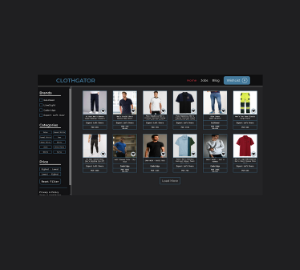
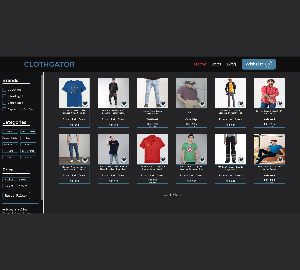
filtering added on cards

Changed region(s): [[0.0, 0.2074, 0.96, 0.8], [0.0, 0.2963, 0.09, 0.3852], [0.0, 0.3852, 0.03, 0.4148]]

diff --git a/work.js b/work.js
@@ -1,0 +1,125 @@
+const FULLSTACK = "FullStack"
+const FRONTEND = "Frontend"
+const UIDESIGN = "UI Design"
+
+export const work = [
+    {
+        type: FULLSTACK,
+        image: "/images/clothgator.png",
+        title: "Clothgator.com",
+        about: "Clothgator is a clothing aggregator based in Pakistan.",
+        tech: ["Django", "Next JS"],
+        btns: [
+            {
+                color: "accent",
+                type: "filled",
+                text: "Live Demo",
+                link: "https://clothgator.com/"
+            },
+        ]
+    },
+
+    {
+        type: FULLSTACK,
+        image: "/images/studentutor.png",
+        title: "Studentutor",
+        about: "A platform to connect students and tutors.",
+        tech: ["Django"],
+        btns: [
+            {
+                color: "black",
+                type: "stroked",
+                text: "Github",
+                link: "https://github.com/UsamaKashif/studentutor"
+            }
+        ]
+    },
+
+    {
+        type: FRONTEND,
+        image: "/images/sunnyside.png",
+        title: "Sunny-Side Landing Page",
+        about: "frontend Mentor Challenge",
+        tech: ["Next JS"],
+        btns: [
+            {
+                color: "accent",
+                type: "filled",
+                text: "Live Demo",
+                link: "https://sunnyside-landing-page-sigma.vercel.app/"
+            },
+            {
+                color: "black",
+                type: "stroked",
+                text: "Github",
+                link: "https://github.com/UsamaKashif/Sunnyside-landing-page"
+            }
+        ]
+    },
+
+    {
+        type: FRONTEND,
+        image: "/images/3colcard.png",
+        title: "3-Column Card",
+        about: "frontend Mentor Challenge",
+        tech: ["Next JS"],
+        btns: [
+            {
+                color: "accent",
+                type: "filled",
+                text: "Live Demo",
+                link: "https://3-column-preview-card-component-omega.vercel.app/"
+            },
+            {
+                color: "black",
+                type: "stroked",
+                text: "Github",
+                link: "https://github.com/UsamaKashif/3-column-preview-card-component"
+            }
+        ]
+    },
+
+    {
+        type: FRONTEND,
+        image: "/images/Expensetracker.png",
+        title: "Expense Tracker",
+        about: "Simple Expense tracker",
+        tech: ["React JS"],
+        btns: [
+            {
+                color: "accent",
+                type: "filled",
+                text: "Live Demo",
+                link: "https://bawdy-jellyfish.surge.sh/"
+            },
+            {
+                color: "black",
+                type: "stroked",
+                text: "Github",
+                link: "https://github.com/UsamaKashif/expense-tracker-reactjs"
+            }
+        ]
+    },
+
+    {
+        type: FULLSTACK,
+        image: "/images/ecommerce.png",
+        title: "E-Commerce",
+        about: "Simple Ecommerce website",
+        tech: ["Django"],
+        btns: [
+            {
+                color: "accent",
+                type: "filled",
+                text: "Live Demo",
+                link: "https://ecommerce-with-dj.herokuapp.com/"
+            },
+            {
+                color: "black",
+                type: "stroked",
+                text: "Github",
+                link: "https://github.com/UsamaKashif/e-commerce-with-django"
+            }
+        ]
+    },
+]

diff --git a/pages/index.js b/pages/index.js
@@ -1,16 +1,35 @@
 import Head from 'next/head'
 import Image from 'next/image'
-import { useState } from 'react'
+import { useEffect, useState } from 'react'
 import Card from '../components/Card/Index'
 import Footer from '../components/Footer/Index'
 import Header from '../components/Header/Index'
 import Tech from '../components/tech/Index'
 import styles from '../styles/Home.module.css'
+import { work } from '../work'
 
 const WORKTYPES = ["All", "FullStack", "Frontend", "UI Design"]
 
-export default function Home() {
+export default function Home({data}) {
   const [type, setType] = useState(WORKTYPES[0])
+
+  const [cards, setCards] = useState([])
+
+  useEffect(() => {
+    switch (type) {
+      case WORKTYPES[1]:
+        setCards(data.filter(data => data.type === type))
+        break
+      case WORKTYPES[2]:
+        setCards(data.filter(data => data.type === type))
+        break
+      case WORKTYPES[3]:
+        setCards(data.filter(data => data.type === type))
+        break
+      default:
+        setCards(data)
+    }
+  }, [type])
 
   const changeActive = (t) => {
     setType(t)
@@ -34,17 +53,25 @@ export default function Home() {
             }
           </div>
           <div className={styles.cards}>
-            <Card />
-            <Card />
-            <Card />
-            <Card />
-            <Card />
-            <Card />
-            <Card />
+            {
+              cards.map((card, index) => (
+                <Card data={card} key={index} />
+              ))
+            }
           </div>
       </section>
 
       <Footer />
     </main>
   )
+}
+
+
+export const getStaticProps = async () => {
+  const data = work
+  return {
+    props: {
+      data: data
+    }
+  }
 }

diff --git a/components/Card/Index.js b/components/Card/Index.js
@@ -11,22 +11,28 @@ const TechUsed = ({text}) => {
     )
 }
 
-const Card = () => {
+const Card = ({data}) => {
     return (
         <div className={styles.cardContainer}>
             <section className={styles.imgSection}>
-                <img src="/images/clothgator.png" alt="clothgator.com" />
+                <img src={data.image} alt={data.about} />
             </section>
             <section className={styles.content}>
-                <h1>Clothgator.com</h1>
-                <p>Clothgator is a clothing aggregator based in Pakistan.</p>
+                <h1>{data.title}</h1>
+                <p>{data.about}</p>
                 <div className={styles.btns}>
-                    <Button color="accent" type="fill" text="View Demo" />
-                    <Button color="black" type="stroked" text="Github" />
+                    {
+                        data.btns.map((btn, index) => (
+                            <Button color={btn.color} link={btn.link} type={btn.type} text={btn.text} />
+                        ))
+                    }
                 </div>
                 <div className={styles.techUsedContainer}>
-                    <TechUsed text="Django" />
-                    <TechUsed text="Next JS" />
+                    {
+                        data.tech.map((tech, index) => (
+                            <TechUsed key={index} text={tech} key={index} />
+                        ))
+                    }
                 </div>
             </section>
         </div>

diff --git a/components/Button/Index.js b/components/Button/Index.js
@@ -2,7 +2,7 @@ import React from 'react'
 import styles from "./Button.module.css"
 
 
-const Button = ({color="primary", type="filled", text}) => {
+const Button = ({ color = "primary", type = "filled", text , link}) => {
     const bgColor = {
         "primary": "#115D8C",
         "secondary": "#999ea3",
@@ -10,16 +10,19 @@ const Button = ({color="primary", type="filled", text}) => {
         "accent": "#F45B69"
     }
     return (
-        <div
-            style={{
-                backgroundColor: type === "stroked" ? "transparent" : bgColor[color],
-                border: type === "stroked" ? `1px solid ${bgColor[color]}`:0,
-                borderRadius: type === "rounded" ? "3px" : 0,
-            }}
-            className={styles.btn}
-        >
-            {text}
-        </div>
+            <div
+                onClick={() => {
+                    window.open(link, "_blank")
+                }}
+                style={{
+                    backgroundColor: type === "stroked" ? "transparent" : bgColor[color],
+                    border: type === "stroked" ? `1px solid ${bgColor[color]}` : 0,
+                    borderRadius: type === "rounded" ? "3px" : 0,
+                }}
+                className={styles.btn}
+            >
+                {text}
+            </div>
     )
 }
 

diff --git a/components/tech/Tech.module.css b/components/tech/Tech.module.css
@@ -20,12 +20,7 @@
     flex-wrap: wrap;
 }
 
-.techList{
-    display: grid;
-    grid-template-columns: auto auto auto auto auto auto;
-    place-content: center;
-    width: 100%;
-}
+
 
 .container p {
     color: var(--color-white);
@@ -35,11 +30,26 @@
     min-width: 170px;
 }
 
-@media (max-width: 500px){
+@media (max-width: 700px){
     .container p {
         font-size: 25.76px;
         line-height: 37px;
-        width: 50%;
+        width: 30%;
+        text-align: center;
+    }
+}
+
+@media (max-width: 586px){
+    .techList  {
+        display: flex;
+        align-items: center;
+        justify-content: center;
+    }
+}
+
+@media (max-width: 500px){
+    .container p {
+        width: 30%;
         text-align: center;
     }
 }

diff --git a/components/Card/Card.module.css b/components/Card/Card.module.css
@@ -5,11 +5,18 @@
     border-bottom-left-radius: 10px;
     border-bottom-right-radius: 10px;
     margin-bottom: 20px;
+    margin-right: 20px;
 }
 
 .imgSection{
     width: 100%;
     height: 270px;
+    overflow: hidden;
+}
+
+.imgSection img {
+    width: 100%;
+    height: 100%;
 }
 
 .content{
@@ -18,7 +25,8 @@
 }
 
 .content > h1{
-    font-size: 25.76px;
+    /* font-size: 25.76px; */
+    font-size: 18px;
     line-height: 37px;
     font-family: var(--font-secular-one);
     color: var(--color-white);
@@ -76,4 +84,16 @@
 
 .techUsedContainer:last-child{
     margin-right: 0px;
+}
+
+
+@media (max-width: 735px){
+
+    
+    .cardContainer {
+        margin-right: 0;
+    }
+
+    
+    
 }

diff --git a/styles/Home.module.css b/styles/Home.module.css
@@ -47,9 +47,6 @@
     flex-wrap: wrap;
 }
 
-.cards * {
-    margin-right: 20px;
-}
 
 
 @media (max-width: 850px){
@@ -79,9 +76,11 @@
         place-items: center;
     }
     
-    .cards * {
+    /* .cards * {
         margin-right: 0;
-    }
+    } */
+
+    
     
 }
 
